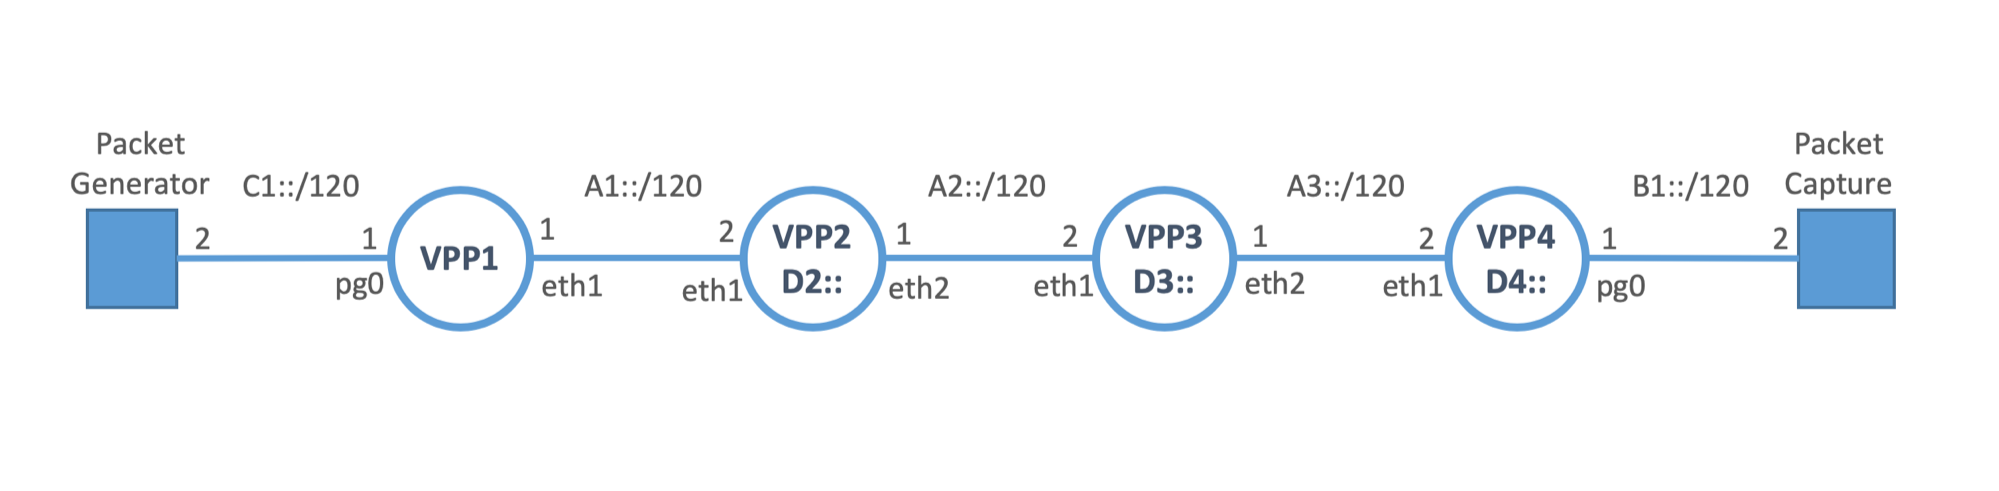
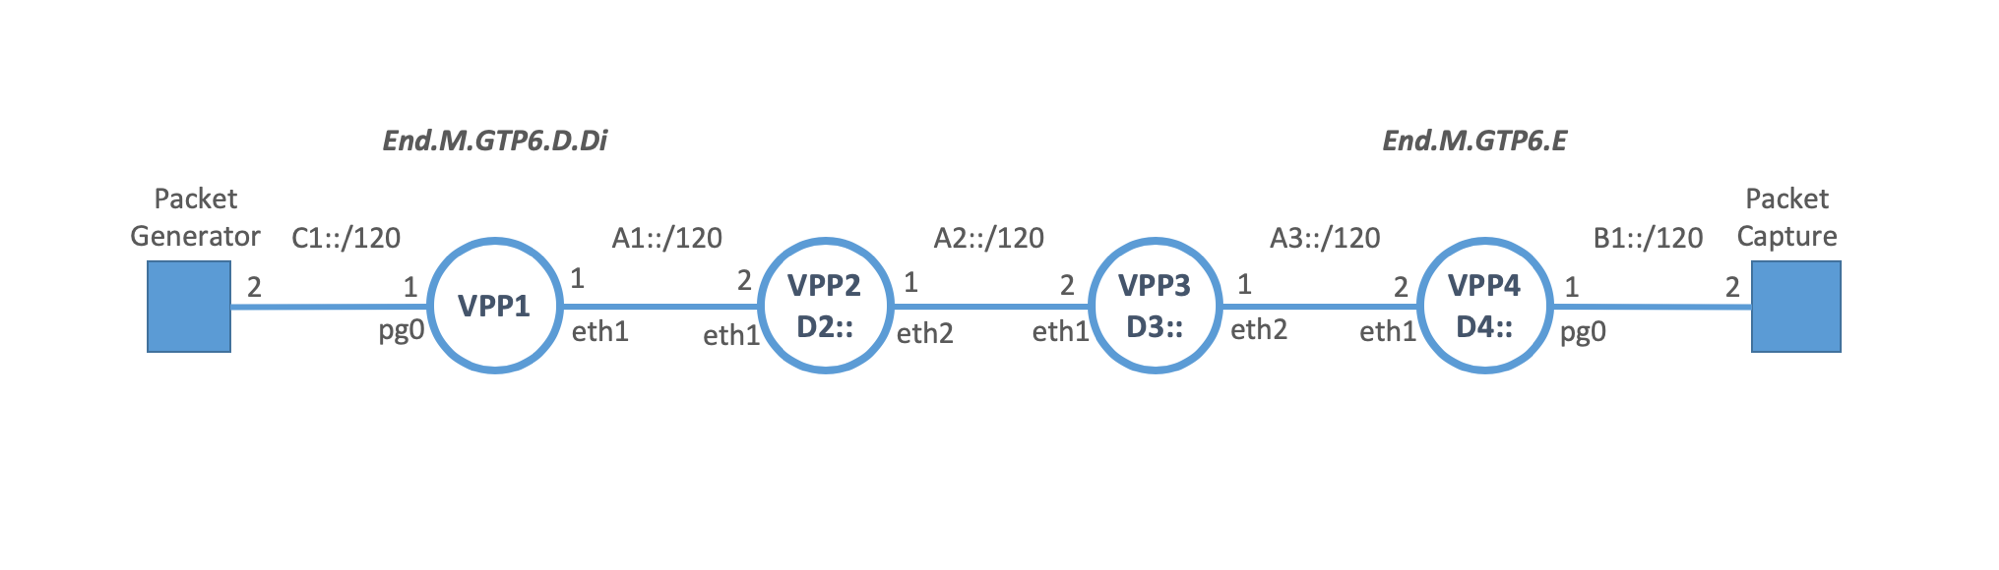
add text and figures to test cases.

Changed region(s): [[0.031, 0.2749, 0.9615, 0.6721], [0.1861, 0.2138, 0.3102, 0.2749], [0.6823, 0.2138, 0.8064, 0.2749]]

diff --git a/README.md b/README.md
@@ -145,15 +145,26 @@ This test scenario demonstrates GTP-U to SRv6 translation. A GTP-U packet sent o
 
 #### GTP-U over UDP/IPv6 case
 
+##### IPv4 payload
+
 ![Topology Diagram](extras/ietf105/topo-test_gtp6.png)
 
-IPv4 payload over GTP-U:
+VPP1 is configured with "End.M.GTP6.D", and VPP4 is configured with "End.DT4". Others are configured with "End". The packet generator sends a GTP-U packet over UDP/IPv6 toward D::2. VPP1 translates it to SRv6 toward the IPv6 destination consists of D4:: and TEID of GTP-U with SR policy <D2::, D3::> in SRH. VPP4 decapsulates the SRv6 packet and lookup the table for the inner IPv4 packet and send out to the packet capture.
+
+To start this case, you can run:
 
 ```
 $ ./runner.py test gtp6
 ```
 
-IPv6 payload over GTP-U:
+##### IPv6 payload
+
+![Topology Diagram](extras/ietf105/topo-test_gtp6ip6.png)
+
+The configurations are same with IPv4 payload case, except D4:: is configured as "End.DT6" in VPP4. VPP4 decapsulates the SRv6 packet and lookup the table for the inner IPv6 packet and send out to the packet capture.
+
+If you want to use IPv6 payload instead of IPv4, you can run:
+
 ```
 $ ./runner.py test gtp6_ipv6
 ```
